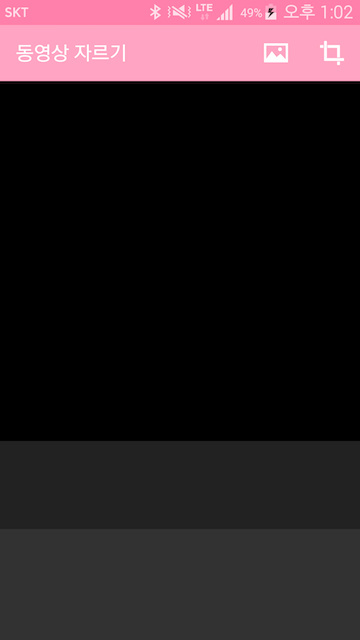
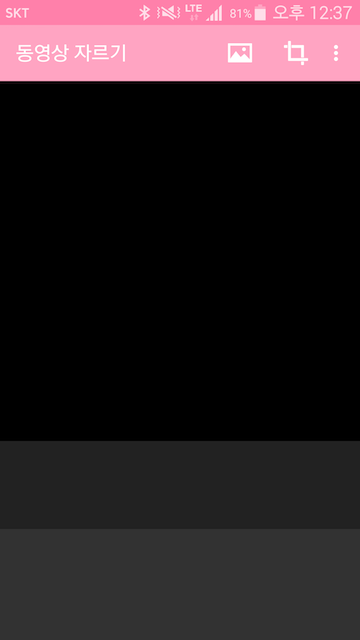
update README

diff --git a/README.md b/README.md
@@ -1,6 +1,11 @@
 # Android-VideoCropper
 Android Video Cropper: Example of FFmpegExecutor, VideoCropView, VideoTrackView
 
+## Update
+### 1.1
+VideoView can be changed
+ ![](./Screenshot4.png)
+
 ## Screenshot
 ![](./Screenshot2.png) ![](./Screenshot3.png)
 
